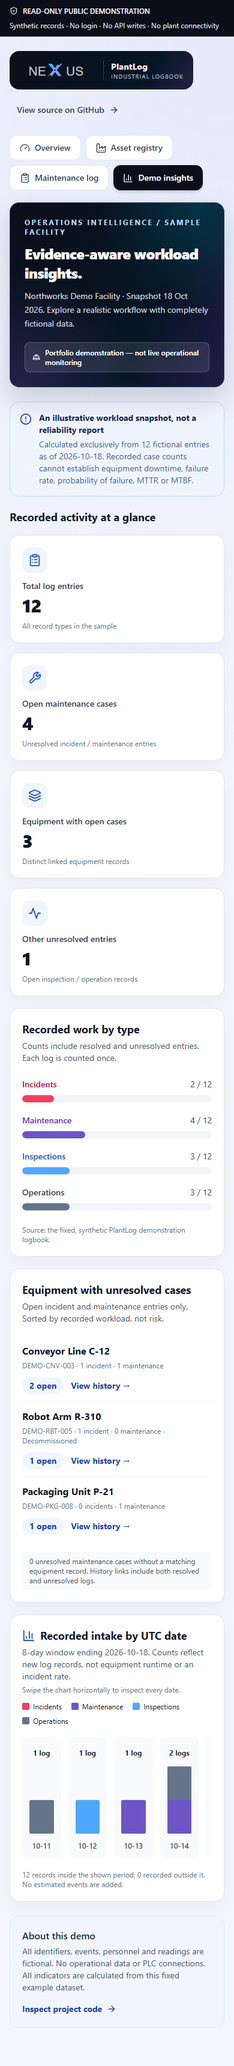
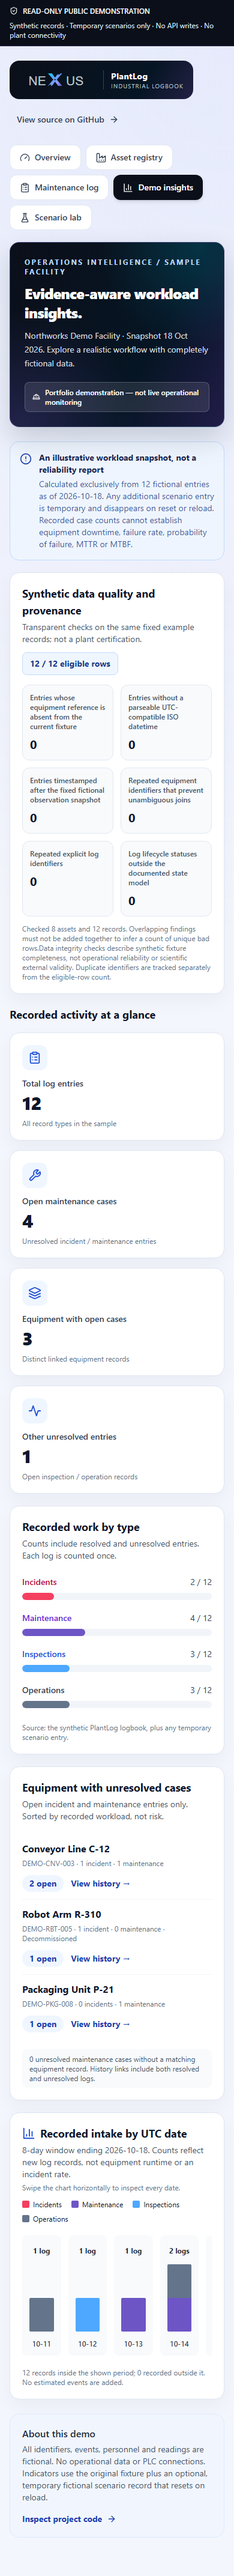
feat(demo): scientific quality gates and accessibility verification (#37)
* feat(science): deterministic fixture quality and exclusion diagnostics

* feat(ui): disclose demo data quality gates and methods

* fix(a11y): label and keyboard-enable the scrollable intake plot

* test(demo): verify data quality panel and keyboard scroll access

* docs(qa): publish measured scientific, accessibility, performance and visual evidence

Changed region(s): [[0.0308, 0.0, 0.9846, 0.9951], [0.7385, 0.5908, 0.8308, 0.653], [0.8615, 0.0, 0.9231, 0.0311]]

diff --git a/frontend/src/components/DemoInsights.tsx b/frontend/src/components/DemoInsights.tsx
@@ -1,6 +1,7 @@
 import { Activity, AlertCircle, BarChart3, ClipboardList, Layers, Wrench } from 'lucide-react';
 import { buildDemoInsights } from '../demo/insights';
 import type { DemoInsightAsset, DemoInsightLog } from '../demo/insights';
+import { assessDemoDataQuality } from '../demo/quality';
 
 const typeDetails = [
     {key: 'incident', label: 'Incidents', color: 'bg-rose-500', text: 'text-rose-700'},
@@ -15,6 +16,7 @@ const DemoInsights = ({ assets, logs, snapshot, onOpenHistory }: {
     onOpenHistory: (assetId: string) => void;
 }) => {
     const summary = buildDemoInsights(assets, logs, snapshot);
+    const quality = assessDemoDataQuality(assets, logs, snapshot);
     const highest = Math.max(1, ...summary.dailyIntake.map(day => day.total));
     return (
         <div className="space-y-5" aria-label="Synthetic maintenance analytics">
@@ -30,6 +32,37 @@ const DemoInsights = ({ assets, logs, snapshot, onOpenHistory }: {
                     </p>
                 </div>
             </div>
+
+            <section className="nexus-card p-5 sm:p-6" aria-labelledby="data-quality-heading">
+                <div className="flex flex-wrap items-center justify-between gap-3">
+                    <div>
+                        <h2 id="data-quality-heading" className="text-lg font-bold text-slate-900">
+                            Synthetic data quality and provenance
+                        </h2>
+                        <p className="mt-1 text-sm text-slate-600">
+                            Transparent checks on the same fixed example records; not a plant certification.
+                        </p>
+                    </div>
+                    <span className="rounded-lg border border-blue-200 bg-blue-50 px-3 py-2 text-sm font-bold text-blue-900">
+                        {quality.eligibleRecords} / {quality.assessedRecords} eligible rows
+                    </span>
+                </div>
+                <dl className="mt-4 grid grid-cols-2 gap-3 sm:grid-cols-3">
+                    {quality.findings.map(finding => (
+                        <div key={finding.code} className="rounded-xl border border-slate-200 bg-slate-50 p-3">
+                            <dt className="text-xs font-medium text-slate-600">{finding.meaning}</dt>
+                            <dd className={`mt-2 text-xl font-bold tabular-nums ${finding.count ? 'text-amber-800' : 'text-slate-900'}`}>
+                                {finding.count}
+                            </dd>
+                        </div>
+                    ))}
+                </dl>
+                <p className="mt-3 text-xs text-slate-500">
+                    Checked {quality.assessedAssets} assets and {quality.assessedRecords} records.
+                    Overlapping findings must not be added together to infer a count of unique bad rows.
+                    {quality.caveat}
+                </p>
+            </section>
 
             <section aria-labelledby="insights-summary-title">
                 <h2 id="insights-summary-title" className="mb-4 text-lg font-bold">Recorded activity at a glance</h2>
@@ -139,7 +172,8 @@ const DemoInsights = ({ assets, logs, snapshot, onOpenHistory }: {
                         </span>)}
                     </div>
                 </div>
-                <div className="mt-5 w-full min-w-0 max-w-full overflow-x-auto pb-2">
+                <div className="mt-5 w-full min-w-0 max-w-full overflow-x-auto pb-2"
+                    tabIndex={0} role="region" aria-label="Eight-day recorded intake chart, scroll horizontally for later dates">
                     <ol className="grid min-w-[600px] grid-cols-8 gap-3">
                         {summary.dailyIntake.map(day => (
                             <li key={day.day} className="relative rounded-lg bg-slate-50 p-3 text-center"

diff --git a/frontend/src/demo/quality.ts b/frontend/src/demo/quality.ts
@@ -1,0 +1,79 @@
+import type { DemoInsightAsset, DemoInsightLog } from './insights';
+
+export interface QualityFinding {
+    code: string;
+    severity: 'error' | 'warning';
+    count: number;
+    meaning: string;
+}
+export interface QualityReport {
+    assessedRecords: number;
+    assessedAssets: number;
+    eligibleRecords: number;
+    outsideSnapshot: number;
+    unlinkedRecords: number;
+    invalidDates: number;
+    duplicateAssets: number;
+    duplicateLogIds: number;
+    unknownStatuses: number;
+    findings: QualityFinding[];
+    caveat: string;
+}
+
+/** Deterministic fixture provenance checks. No probabilistic interpretation. */
+export const assessDemoDataQuality = (
+    assets: DemoInsightAsset[], logs: (DemoInsightLog & { id?: string })[], snapshot: string,
+): QualityReport => {
+    const end = Date.parse(snapshot + 'T23:59:59.999Z');
+    if (!Number.isFinite(end) || new Date(end).toISOString().slice(0, 10) !== snapshot) {
+        throw new Error('Invalid snapshot UTC date');
+    }
+    const knownAssets = new Set<string>();
+    let duplicateAssets = 0;
+    for (const asset of assets) {
+        if (knownAssets.has(asset.id)) duplicateAssets++;
+        knownAssets.add(asset.id);
+    }
+    const ids = new Set<string>();
+    let duplicateLogIds = 0, unlinkedRecords = 0, invalidDates = 0;
+    let outsideSnapshot = 0, unknownStatuses = 0;
+    const statuses = new Set(['open', 'acknowledged', 'in_progress', 'resolved']);
+    for (const entry of logs) {
+        if (entry.id !== undefined) {
+            if (ids.has(entry.id)) duplicateLogIds++;
+            ids.add(entry.id);
+        }
+        if (!knownAssets.has(entry.assetId)) unlinkedRecords++;
+        if (!statuses.has(entry.status)) unknownStatuses++;
+        const instant = typeof entry.date === 'string' ? Date.parse(entry.date) : NaN;
+        if (!Number.isFinite(instant) || !/^\d{4}-\d\d-\d\dT/.test(entry.date)) invalidDates++;
+        else if (instant > end) outsideSnapshot++;
+    }
+    const findings: QualityFinding[] = [
+        {code: 'UNLINKED', severity: 'warning', count: unlinkedRecords,
+            meaning: 'Entries whose equipment reference is absent from the current fixture'},
+        {code: 'INVALID_DATE', severity: 'error', count: invalidDates,
+            meaning: 'Entries without a parseable UTC-compatible ISO datetime'},
+        {code: 'FUTURE_VS_SNAPSHOT', severity: 'warning', count: outsideSnapshot,
+            meaning: 'Entries timestamped after the fixed fictional observation snapshot'},
+        {code: 'DUPLICATE_ASSETS', severity: 'error', count: duplicateAssets,
+            meaning: 'Repeated equipment identifiers that prevent unambiguous joins'},
+        {code: 'DUPLICATE_LOGS', severity: 'error', count: duplicateLogIds,
+            meaning: 'Repeated explicit log identifiers'},
+        {code: 'UNKNOWN_STATUS', severity: 'error', count: unknownStatuses,
+            meaning: 'Log lifecycle statuses outside the documented state model'},
+    ];
+    const excluded = new Set<number>();
+    logs.forEach((entry, index) => {
+        const t = Date.parse(entry.date);
+        if (!knownAssets.has(entry.assetId) || !statuses.has(entry.status) ||
+            !Number.isFinite(t) || t > end) excluded.add(index);
+    });
+    return {
+        assessedRecords: logs.length, assessedAssets: assets.length,
+        eligibleRecords: logs.length - excluded.size,
+        outsideSnapshot, unlinkedRecords, invalidDates, duplicateAssets,
+        duplicateLogIds, unknownStatuses, findings,
+        caveat: 'Data integrity checks describe synthetic fixture completeness, not operational reliability or scientific external validity. Duplicate identifiers are tracked separately from the eligible-row count.',
+    };
+};

diff --git a/docs/demo-verification-2026-10-21.md b/docs/demo-verification-2026-10-21.md
@@ -1,0 +1,64 @@
+# Demo verification evidence — 21 October 2026
+
+## Scope
+
+NEXUS PlantLog is a fictional, read-only portfolio demonstrator with a local
+memory-only scenario. This report applies to the frontend development branch
+`feat/demo-scientific-quality-gates` and the verified local production-equivalent
+build with `VITE_PUBLIC_DEMO_ONLY=true`. It is **not** independent validation
+of real-world plant reliability, an accessibility certificate, or an
+industrial safety assessment.
+
+## Scientific integrity
+
+- Six explicitly reported quality dimensions: absent equipment reference,
+  invalid timestamp, post-observation timestamp, duplicate asset IDs,
+  duplicate log IDs, and unsupported lifecycle state.
+- **12/12** baseline fictional records qualified under the declared check.
+- Duplicate and exclusion findings are allowed to overlap. They are not
+  summed to create a misleading count of unique bad records.
+- Unit regression fixtures separately test malformed/missing timestamps,
+  duplicate identities, overlapping exclusions, and empty input.
+- No failure-risk, machine uptime, downtime, MTTR/MTBF or field observation
+  estimates are calculated by these checks.
+
+## Repeatable quality gates
+
+| Check | Evidence |
+|---|---|
+| Frontend demo/brand/insights/scenario/quality tests | 19/19 passed |
+| Frontend registry/session tests | 11/11 passed |
+| TypeScript/Vite production build | Passed |
+| ESLint | Passed |
+| Backend unit tests (same source main revision) | 39/39 passed |
+| Updated Playwright Chrome browser-smoke test | Passed |
+| axe-core 4.10.3 WCAG 2 A/AA and WCAG 2.1 A/AA rules | Zero reported violations across five demo tabs at 390 and 1440 px after transitions settled |
+| Viewport overflow (5 tabs × 6 widths) | 0 defects at 320, 360, 390, 768, 1024, 1440 px |
+
+Automated axe results do not cover manual keyboard screen-reader testing,
+WCAG AAA or all possible accessibility failures.
+
+## Performance observation
+
+On the isolated Windows Chrome QA host, a Vite preview running on loopback
+reported `DOMContentLoaded` at **189 ms** and page load at **193 ms**, on a
+single local navigation. This is **not** a Lighthouse score or an internet
+latency benchmark and should not be compared to remote users. The built bundle
+contained approximately 281.40 kB of JavaScript, 90.96 kB gzip, and 34.04 kB
+of CSS, 7.05 kB gzip. These are build sizes, not transfer timing guarantees.
+
+## Visual evidence
+
+- [Updated desktop analytics](nexus-demo-insights.png), 1440 px
+- [Updated mobile analytics](nexus-demo-insights-mobile.png), 390 px
+
+Images were captured from the production-equivalent localhost Vite preview,
+not a newly deployed revision at the time of capture.
+
+## Limitations and no-productization boundary
+
+Backend API + MongoDB integration, real multi-user acceptance, full security
+pen-testing, accessibility manual review, controlled network throttling, and
+real-world scientific validity remain separate verification efforts. This
+project is deliberately not commercialized: no subscriptions, billing, sales,
+customer onboarding, persistent public user input, or live plant controls.

diff --git a/docs/demo-guide.md b/docs/demo-guide.md
@@ -120,3 +120,14 @@ in the existing logbook, and restore the baseline with Reset or reload.
   build. The mobile document width remained **390 px**, with no overflow.
 - These checks do not represent production incident dispatch or regulatory
   safety certification.
+
+## Scientific data-quality checks
+
+The public Demo Insights page now reports fixture data quality separately from
+workload metrics, including dangling asset references, invalid dates, timestamps
+after the fixed observation date, duplicate asset/log IDs, and invalid lifecycle
+statuses. An eligible record may have multiple exclusion findings: unique
+eligible-row totals must not be inferred by summing issue counts. These checks
+only demonstrate internal synthetic-data consistency; they do not establish
+external predictive validity, actual industrial uptime, real-world causal
+relationships or safety assurance.

diff --git a/README.md b/README.md
@@ -23,6 +23,8 @@ A full-stack industrial operations prototype that organizes asset records, maint
 
 ### Advanced demonstration, intentionally not a product
 
+**Scientific integrity:** Demo Insights exposes six data-quality gates on fictional records; see the [method notes](docs/demo-guide.md#scientific-data-quality-checks).
+
 The publicly hosted `Scenario lab` is an **in-memory educational sandbox**, not a workflow for real incidents. Visitors can try one deterministic, fictional maintenance incident through `open → acknowledged → in progress → resolved`, inspect its temporary impact on Demo Insights, and reset without changing any original fixture. No persistent user state, backend writes, real plant connectivity, account creation, billing or productized service is provided by the hosted demo.
 
 ## Problem and approach

diff --git a/docs/browser-testing.md b/docs/browser-testing.md
@@ -76,3 +76,14 @@ Additional visual checks captured
 [mobile](nexus-scenario-lab-mobile.png) at 1440/390 px respectively,
 confirming the document width matched each viewport. These are fictional
 demonstration interactions, not persisted incident operations.
+
+## Scientific fixture data audit and keyboard navigation — 21 October 2026
+
+Demo Insights now discloses unlinked assets, invalid dates, records after
+the observation snapshot, duplicate asset/log identifiers and invalid
+status values. Individual findings can overlap: never add finding counts
+to estimate unique invalid records. No actual reliability measurements
+or external scientific validity are asserted.
+
+The eight-day chart has a labelled keyboard-focusable scrolling region.
+The browser test verifies it and the fixture eligibility counts.
